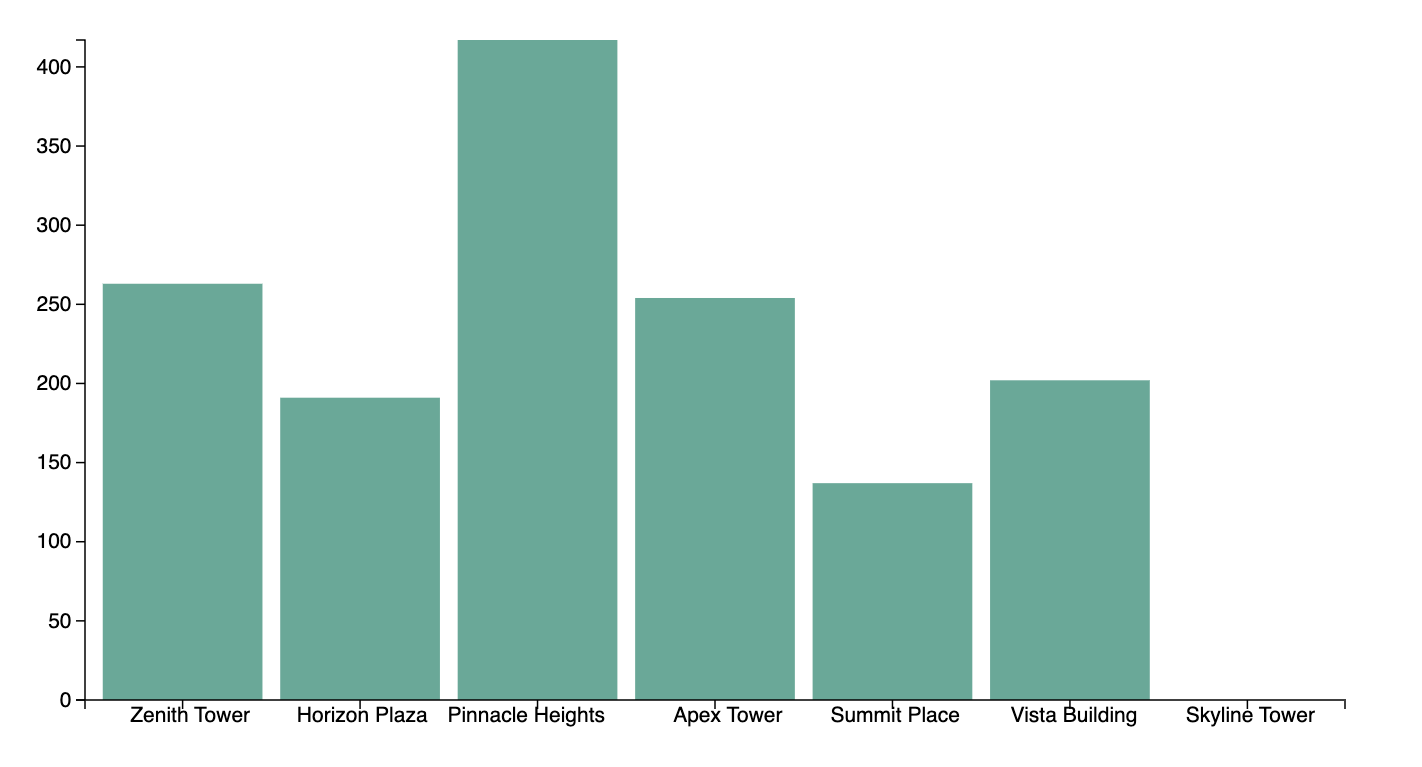
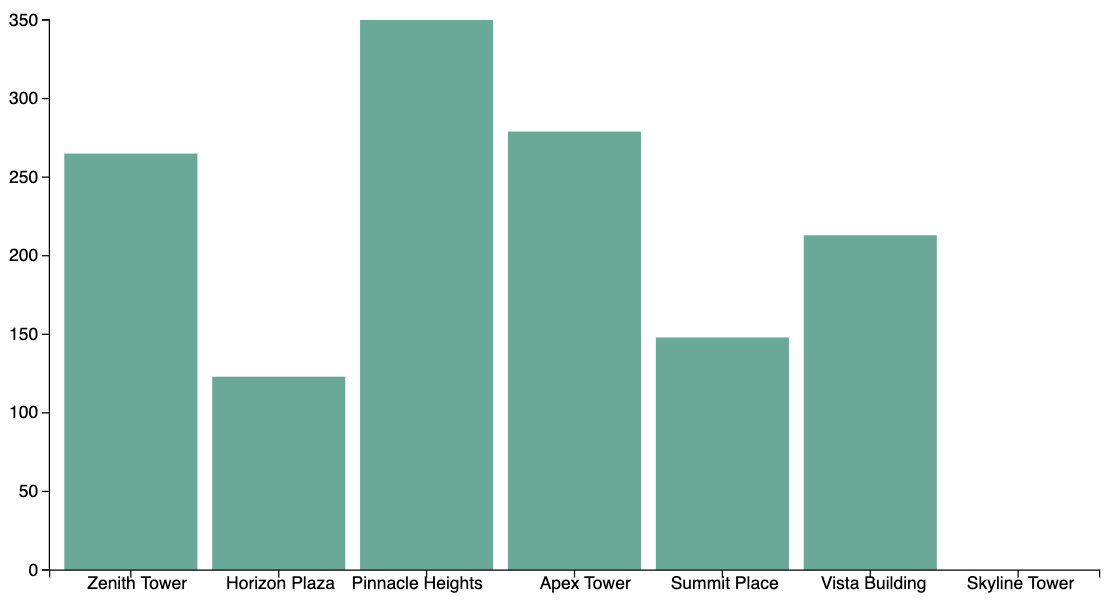
added bar

Changed region(s): [[0.0, 0.0, 0.9767, 0.9802]]

diff --git a/dist/bundle.js b/dist/bundle.js
@@ -10,13 +10,13 @@
 /******/ 	"use strict";
 /******/ 	var __webpack_modules__ = ({
 
-/***/ "./scatter/main.ts":
-/*!*************************!*\
-  !*** ./scatter/main.ts ***!
-  \*************************/
+/***/ "./bar/main.ts":
+/*!*********************!*\
+  !*** ./bar/main.ts ***!
+  \*********************/
 /***/ (function(__unused_webpack_module, exports, __webpack_require__) {
 
-eval("\nvar __createBinding = (this && this.__createBinding) || (Object.create ? (function(o, m, k, k2) {\n    if (k2 === undefined) k2 = k;\n    var desc = Object.getOwnPropertyDescriptor(m, k);\n    if (!desc || (\"get\" in desc ? !m.__esModule : desc.writable || desc.configurable)) {\n      desc = { enumerable: true, get: function() { return m[k]; } };\n    }\n    Object.defineProperty(o, k2, desc);\n}) : (function(o, m, k, k2) {\n    if (k2 === undefined) k2 = k;\n    o[k2] = m[k];\n}));\nvar __setModuleDefault = (this && this.__setModuleDefault) || (Object.create ? (function(o, v) {\n    Object.defineProperty(o, \"default\", { enumerable: true, value: v });\n}) : function(o, v) {\n    o[\"default\"] = v;\n});\nvar __importStar = (this && this.__importStar) || function (mod) {\n    if (mod && mod.__esModule) return mod;\n    var result = {};\n    if (mod != null) for (var k in mod) if (k !== \"default\" && Object.prototype.hasOwnProperty.call(mod, k)) __createBinding(result, mod, k);\n    __setModuleDefault(result, mod);\n    return result;\n};\nvar __importDefault = (this && this.__importDefault) || function (mod) {\n    return (mod && mod.__esModule) ? mod : { \"default\": mod };\n};\nObject.defineProperty(exports, \"__esModule\", ({ value: true }));\nconst d3 = __importStar(__webpack_require__(/*! d3 */ \"./node_modules/d3/src/index.js\"));\nconst phase2_json_1 = __importDefault(__webpack_require__(/*! ./phase2.json */ \"./scatter/phase2.json\"));\n// Set up the SVG canvas dimensions\nconst width = 1160;\nconst height = 700;\nconst margin = { top: 40, right: 40, bottom: 50, left: 60 };\n// Create the SVG container\nconst svg = d3.select('#scatter')\n    .append('svg')\n    .attr('width', width)\n    .attr('height', height);\n// Prepare the data\nconst data = phase2_json_1.default;\n// Define scales\nconst x = d3.scaleLinear()\n    .domain([0, d3.max(data, d => d.ra)])\n    .range([margin.left, width - margin.right]);\nconst y = d3.scaleLinear()\n    .domain([0, d3.max(data, d => d.dec)])\n    .range([height - margin.bottom, margin.top]);\n// Define a scale for circle sizes based on brightness\nconst size = d3.scaleLinear()\n    .domain(d3.extent(data, d => d.brightness)).nice()\n    .range([5, 30]); // Larger variation: smallest to largest size of dots\n// Create axes\nconst xAxis = d3.axisBottom(x).ticks(10).tickFormat(d3.format(\".0f\"));\nconst yAxis = d3.axisLeft(y).ticks(15);\n// Add X axis\nsvg.append('g')\n    .attr('transform', `translate(0, ${height - margin.bottom})`)\n    .call(xAxis)\n    .call(g => g.selectAll(\".domain, .tick line\").style(\"stroke-width\", \"2px\")) // Increase line width\n    .call(g => g.selectAll(\".tick text\").style(\"font-size\", \"20px\")) // Increase tick label font size\n    .append('text')\n    .attr('x', width - margin.right)\n    .attr('y', 45)\n    .attr('fill', '#000')\n    .attr('text-anchor', 'end')\n    .attr('font-weight', 'bold')\n    .attr('font-size', '25px') // Change font size\n    .text('Right Ascension (°)');\n// Add Y axis\nsvg.append('g')\n    .attr('transform', `translate(${margin.left}, 0)`)\n    .call(yAxis)\n    .call(g => g.selectAll(\".domain, .tick line\").style(\"stroke-width\", \"2px\")) // Increase line width\n    .call(g => g.selectAll(\".tick text\").style(\"font-size\", \"20px\")) // Increase tick label font size\n    .append('text')\n    .attr('transform', 'rotate(-90)')\n    .attr('x', -margin.top)\n    .attr('y', -60)\n    .attr('dy', '.71em')\n    .attr('fill', '#000')\n    .attr('text-anchor', 'end')\n    .attr('font-weight', 'bold')\n    .attr('font-size', '25px') // Change font size\n    .text('Declination (°)');\n// Draw scatter plot\nsvg.append('g')\n    .selectAll('circle')\n    .data(data)\n    .enter()\n    .append('circle')\n    .attr('cx', d => x(d.ra))\n    .attr('cy', d => y(d.dec))\n    .attr('r', d => size(d.brightness))\n    .style('fill', '#000000')\n    .style('opacity', 0.7)\n    .attr('stroke', 'black');\n// Optionally, add tooltip on hover\nconst tooltip = d3.select('#scatter')\n    .append('div')\n    .style('opacity', 0)\n    .attr('class', 'tooltip')\n    .style('background-color', 'white')\n    .style('border', 'solid')\n    .style('border-width', '1px')\n    .style('border-radius', '5px')\n    .style('padding', '10px')\n    .style('position', 'absolute');\nconst mouseover = function (event, d) {\n    tooltip\n        .style('opacity', 1);\n    d3.select(this)\n        .style('stroke', 'red')\n        .style('opacity', 1);\n};\nconst mousemove = function (event, d) {\n    tooltip\n        .html(`RA: ${d.ra}<br>Dec: ${d.dec}<br>Brightness: ${d.brightness}${d.note ? '<br>Note: ' + d.note : ''}`)\n        .style('left', (event.pageX + 15) + 'px')\n        .style('top', (event.pageY - 28) + 'px');\n};\nconst mouseleave = function (event, d) {\n    tooltip\n        .style('opacity', 0);\n    d3.select(this)\n        .style('stroke', 'black')\n        .style('opacity', 0.7);\n};\nsvg.selectAll('circle')\n    .on('mouseover', mouseover)\n    .on('mousemove', mousemove)\n    .on('mouseleave', mouseleave);\n\n\n//# sourceURL=webpack://analogyvis/./scatter/main.ts?");
+eval("\nvar __createBinding = (this && this.__createBinding) || (Object.create ? (function(o, m, k, k2) {\n    if (k2 === undefined) k2 = k;\n    var desc = Object.getOwnPropertyDescriptor(m, k);\n    if (!desc || (\"get\" in desc ? !m.__esModule : desc.writable || desc.configurable)) {\n      desc = { enumerable: true, get: function() { return m[k]; } };\n    }\n    Object.defineProperty(o, k2, desc);\n}) : (function(o, m, k, k2) {\n    if (k2 === undefined) k2 = k;\n    o[k2] = m[k];\n}));\nvar __setModuleDefault = (this && this.__setModuleDefault) || (Object.create ? (function(o, v) {\n    Object.defineProperty(o, \"default\", { enumerable: true, value: v });\n}) : function(o, v) {\n    o[\"default\"] = v;\n});\nvar __importStar = (this && this.__importStar) || function (mod) {\n    if (mod && mod.__esModule) return mod;\n    var result = {};\n    if (mod != null) for (var k in mod) if (k !== \"default\" && Object.prototype.hasOwnProperty.call(mod, k)) __createBinding(result, mod, k);\n    __setModuleDefault(result, mod);\n    return result;\n};\nvar __importDefault = (this && this.__importDefault) || function (mod) {\n    return (mod && mod.__esModule) ? mod : { \"default\": mod };\n};\nObject.defineProperty(exports, \"__esModule\", ({ value: true }));\nconst d3 = __importStar(__webpack_require__(/*! d3 */ \"./node_modules/d3/src/index.js\"));\nconst phase2_json_1 = __importDefault(__webpack_require__(/*! ./phase2.json */ \"./bar/phase2.json\"));\nconst margin = { top: 20, right: 30, bottom: 40, left: 90 };\nconst width = 960 - margin.left - margin.right;\nconst height = 500 - margin.top - margin.bottom;\nconst svg = d3.select('#bar')\n    .append('svg')\n    .attr('width', width + margin.left + margin.right)\n    .attr('height', height + margin.top + margin.bottom)\n    .append('g')\n    .attr('transform', `translate(${margin.left},${margin.top})`);\n// Set the y scale based on the maximum height in the data\nconst y = d3.scaleLinear()\n    .domain([0, d3.max(phase2_json_1.default, (d) => d['Height (meters)'])])\n    .range([height, 0]);\n// Set the x scale using band scale for categorical data\nconst x = d3.scaleBand()\n    .range([0, width])\n    .domain(phase2_json_1.default.map((d) => d['Building Name']))\n    .padding(0.1);\nsvg.append('g')\n    .selectAll('rect')\n    .data(phase2_json_1.default)\n    .enter()\n    .append('rect')\n    .attr('x', (d) => x(d['Building Name']))\n    .attr('y', (d) => y(d['Height (meters)']))\n    .attr('width', x.bandwidth())\n    .attr('height', (d) => height - y(d['Height (meters)']))\n    .attr('fill', '#69b3a2');\n// Add y-axis with linear scale\nsvg.append('g')\n    .call(d3.axisLeft(y))\n    .selectAll('text')\n    .style('font-size', '14px');\n// Add x-axis with band scale\nsvg.append('g')\n    .attr('transform', `translate(0,${height})`)\n    .call(d3.axisBottom(x))\n    .selectAll('text')\n    .style('font-size', '14px')\n    .attr('y', 10)\n    .attr('x', -5)\n    .attr('dy', '.35em')\n    .attr('transform', 'rotate(0)')\n    .attr('transform', 'translate(50,0)')\n    .style('text-anchor', 'end');\n\n\n//# sourceURL=webpack://analogyvis/./bar/main.ts?");
 
 /***/ }),
 
@@ -5680,13 +5680,13 @@ eval("__webpack_require__.r(__webpack_exports__);\n/* harmony export */ __webpac
 
 /***/ }),
 
-/***/ "./scatter/phase2.json":
-/*!*****************************!*\
-  !*** ./scatter/phase2.json ***!
-  \*****************************/
+/***/ "./bar/phase2.json":
+/*!*************************!*\
+  !*** ./bar/phase2.json ***!
+  \*************************/
 /***/ ((module) => {
 
-eval("module.exports = /*#__PURE__*/JSON.parse('[{\"ra\":8,\"dec\":23,\"brightness\":15},{\"ra\":10,\"dec\":28,\"brightness\":15},{\"ra\":9,\"dec\":47,\"brightness\":15},{\"ra\":14,\"dec\":52,\"brightness\":15},{\"ra\":15,\"dec\":57,\"brightness\":15,\"note\":\"Galaxy Center\"},{\"ra\":18,\"dec\":46,\"brightness\":22.5,\"note\":\"Galaxy Star\"},{\"ra\":20,\"dec\":28.5,\"brightness\":22.5},{\"ra\":30,\"dec\":9,\"brightness\":33},{\"ra\":35,\"dec\":25,\"brightness\":15},{\"ra\":34,\"dec\":31,\"brightness\":15},{\"ra\":35,\"dec\":55,\"brightness\":75,\"note\":\"Cluster Star\"},{\"ra\":38,\"dec\":25,\"brightness\":15},{\"ra\":40,\"dec\":34,\"brightness\":37.5},{\"ra\":42,\"dec\":29,\"brightness\":15},{\"ra\":45,\"dec\":33,\"brightness\":9,\"note\":\"Cluster Core\"},{\"ra\":45,\"dec\":38,\"brightness\":9,\"note\":\"Cluster Star\"},{\"ra\":44,\"dec\":63,\"brightness\":22.5,\"note\":\"Cluster Star\"},{\"ra\":49,\"dec\":60,\"brightness\":7.5},{\"ra\":50,\"dec\":13,\"brightness\":42},{\"ra\":55,\"dec\":28,\"brightness\":15},{\"ra\":60,\"dec\":55,\"brightness\":33,\"note\":\"Outlier Star\"},{\"ra\":68,\"dec\":25,\"brightness\":27},{\"ra\":70,\"dec\":45,\"brightness\":57},{\"ra\":72.5,\"dec\":68,\"brightness\":45},{\"ra\":76,\"dec\":58,\"brightness\":27},{\"ra\":79,\"dec\":40,\"brightness\":12},{\"ra\":80,\"dec\":70,\"brightness\":57}]');\n\n//# sourceURL=webpack://analogyvis/./scatter/phase2.json?");
+eval("module.exports = /*#__PURE__*/JSON.parse('[{\"Building Name\":\"Zenith Tower\",\"Height (meters)\":265},{\"Building Name\":\"Horizon Plaza\",\"Height (meters)\":123},{\"Building Name\":\"Pinnacle Heights\",\"Height (meters)\":350},{\"Building Name\":\"Apex Tower\",\"Height (meters)\":279},{\"Building Name\":\"Summit Place\",\"Height (meters)\":148},{\"Building Name\":\"Vista Building\",\"Height (meters)\":213}]');\n\n//# sourceURL=webpack://analogyvis/./bar/phase2.json?");
 
 /***/ })
 
@@ -5750,7 +5750,7 @@ eval("module.exports = /*#__PURE__*/JSON.parse('[{\"ra\":8,\"dec\":23,\"brightne
 /******/ 	// startup
 /******/ 	// Load entry module and return exports
 /******/ 	// This entry module is referenced by other modules so it can't be inlined
-/******/ 	var __webpack_exports__ = __webpack_require__("./scatter/main.ts");
+/******/ 	var __webpack_exports__ = __webpack_require__("./bar/main.ts");
 /******/ 	
 /******/ })()
 ;
